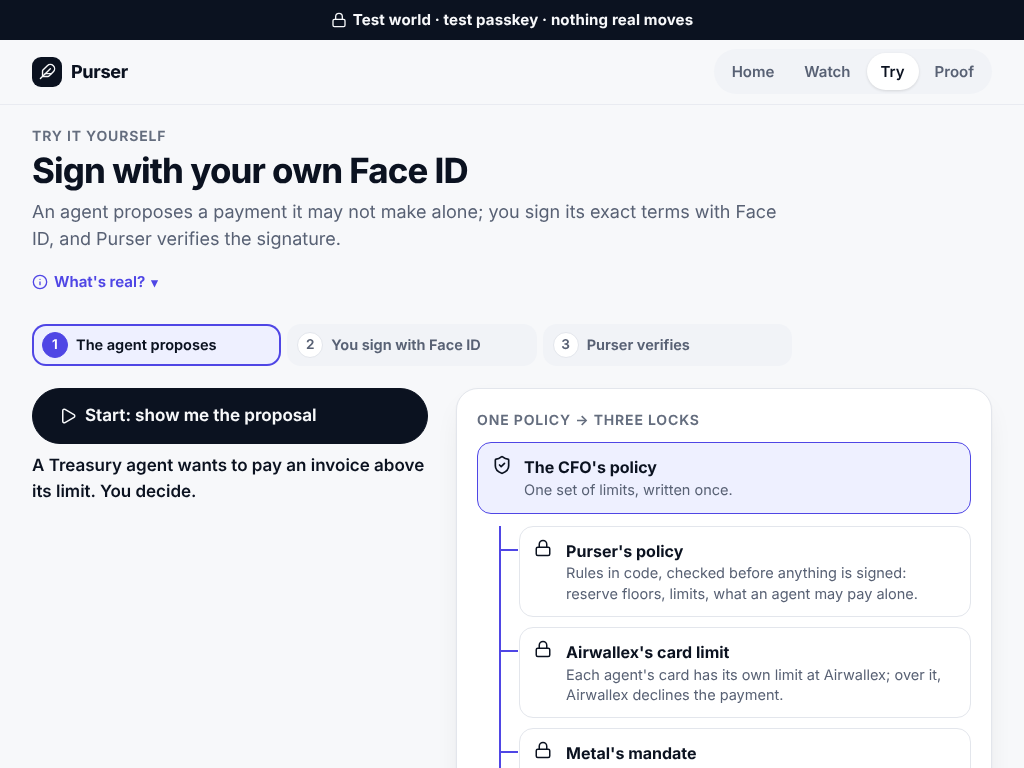
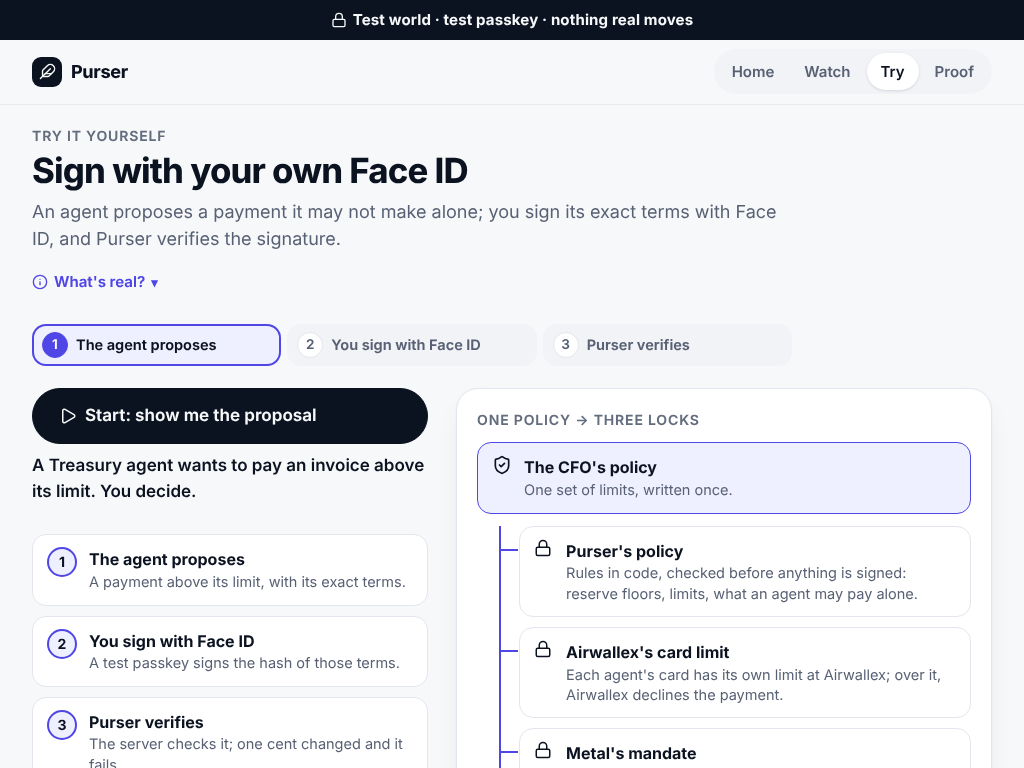
/try/sign from 1024 px: the three steps under the start button
The empty left column on desktop now shows the three steps once more, one line each with a short gloss, beside
"One policy -> three locks"; hidden below 1024 px, where the progress bar says them. A unit test reads the lines;
the browser check checks them at 1440 px and that they fill the column beside the diagram. New 1024 and 1440 start
screenshots in docs/evidence/try-sign-ux. 2549 tests in 258 files.

Claude-Session: https://claude.ai/code/session_017bq3Bxz45idsGUgFJjRs4G

diff --git a/test/browser/trysign.check.ts b/test/browser/trysign.check.ts
@@ -44,7 +44,7 @@ const { StandInQuotes } = await import("../support/fxStandIn.js");
 const fxStandIn = new StandInQuotes();
 const { StandInLine } = await import("../support/lineStandIn.js");
 const lineStandIn = new StandInLine();
-const { TAMPER_VERDICT, TRY_SIGN_END, TRY_SIGN_HOOK, TRY_SIGN_LABEL, TRY_SIGN_SIGNED, TRY_SIGN_STEPS, WHATS_REAL } = await import("../../src/try/sign.js");
+const { TAMPER_VERDICT, TRY_SIGN_END, TRY_SIGN_HOOK, TRY_SIGN_LABEL, TRY_SIGN_SIGNED, TRY_SIGN_STEP_GLOSS, TRY_SIGN_STEPS, WHATS_REAL } = await import("../../src/try/sign.js");
 const { cfoApproval, tryLocks } = await import("../../src/try/examples.js");
 const { letThroughOf, loadRecord } = await import("../../src/redesign/run.js");
 const { canonical } = await import("../../worker/src/trySign.js");
@@ -203,7 +203,18 @@ for (const [width, scheme] of RUNS) {
     check(!!startFill.diagram && startFill.diagram.left > width * 0.45 && startFill.diagram.bottom <= height && startFill.diagram.locks === 3,
       `${tag}: A4: the right column shows "one policy → three locks" (from x ${Math.round(startFill.diagram?.left ?? 0)}, three locks, above the fold)`);
     check(startFill.fill >= 0.4, `${tag}: A4: the start screen is not mostly empty (content covers ${Math.round(startFill.fill * 100)}% of the screen below the header)`);
-  } else check(startFill.diagram === null, `${tag}: below 1024 px the diagram is not shown`);
+    // The left column under the start button: the three steps, each with its gloss, filling the column beside the diagram.
+    const left = await page.evaluate(`(() => {
+      const ls = [...document.querySelectorAll("#s-world .gosteps li")].filter((l) => l.getClientRects().length > 0);
+      const go = document.querySelector("#s-world .go").getBoundingClientRect(), d = document.querySelector("#diagram").getBoundingClientRect();
+      return { lines: ls.map((l) => [l.querySelector("b").textContent, l.querySelector("small").textContent]), goBottom: go.bottom, goRight: go.right, dTop: d.top, dBottom: d.bottom, dLeft: d.left };
+    })()`) as { lines: [string, string][]; goBottom: number; goRight: number; dTop: number; dBottom: number; dLeft: number };
+    check(JSON.stringify(left.lines) === JSON.stringify(TRY_SIGN_STEPS.map((s, i) => [s, TRY_SIGN_STEP_GLOSS[i]])) && left.goRight <= left.dLeft && left.goBottom - left.dTop >= 0.7 * (left.dBottom - left.dTop),
+      `${tag}: A4: the left column shows the three steps with their glosses under the start button (to ${Math.round(left.goBottom)} px, the diagram to ${Math.round(left.dBottom)} px)`);
+  } else {
+    check(startFill.diagram === null, `${tag}: below 1024 px the diagram is not shown`);
+    check(await page.locator("#s-world .gosteps").isHidden(), `${tag}: below 1024 px the steps under the button are not shown (the progress bar says them)`);
+  }
   await page.screenshot({ path: join(shots, `${tag}-1-start.png`) });
 
   // Six requests a visit (world, passkey, signature, three tampers) and six visits: the relay's 30 a minute per address

diff --git a/src/try/sign.ts b/src/try/sign.ts
@@ -21,6 +21,12 @@ export const TRY_SIGN_LABEL = "Test world · test passkey · nothing real moves"
 
 /** The three steps, word for word (the progress indicator). */
 export const TRY_SIGN_STEPS = ["The agent proposes", "You sign with Face ID", "Purser verifies"] as const;
+/** From 1024 px, under the start button: each step once more, with a short gloss, word for word (Max, 6 Nov). */
+export const TRY_SIGN_STEP_GLOSS = [
+  "A payment above its limit, with its exact terms.",
+  "A test passkey signs the hash of those terms.",
+  "The server checks it; one cent changed and it fails.",
+] as const;
 
 /** The line under the start button, word for word (Max, 6 Nov). */
 export const TRY_SIGN_HOOK = "A Treasury agent wants to pay an invoice above its limit. You decide.";
@@ -99,8 +105,13 @@ ol.progress li .t { min-width: 0; overflow-wrap: anywhere; }
 .start { display: grid; gap: 8px; max-width: 760px; }
 .go { display: grid; gap: 8px; align-content: start; }
 /* A laptop (A4): the start screen's right column shows how one policy becomes three locks; below 1024 px it is hidden. */
-.diagram { display: none; }
+.diagram, .gosteps { display: none; }
 @media (min-width: 1024px) {
+  /* The left column, under the start button: the three steps, one line each with its gloss. */
+  .gosteps { display: grid; gap: 10px; list-style: none; margin: 14px 0 0; padding: 0; }
+  .gosteps li { display: grid; grid-template-columns: 30px minmax(0, 1fr); gap: 12px; align-items: start; padding: 12px 14px; border-radius: 14px; border: 1px solid var(--border); background: var(--surface); }
+  .gosteps .n { width: 30px; height: 30px; border-radius: 50%; display: grid; place-items: center; background: var(--accent-soft); color: var(--text); box-shadow: inset 0 0 0 2px var(--accent); font: 700 14px/1 Inter, system-ui, sans-serif; }
+  .gosteps b { display: block; font-size: 16px; } .gosteps small { display: block; color: var(--muted); font-size: 14.5px; line-height: 1.4; }
   .start { max-width: 1200px; grid-template-columns: minmax(0, .85fr) minmax(0, 1.15fr); gap: 28px; align-items: start; }
   .diagram { display: grid; gap: 12px; padding: 20px; }
   .diagram .eyebrow { margin: 0; }
@@ -775,6 +786,9 @@ ${TRY_SIGN_STEPS.map((s, i) => `  <li id="pg-${i + 1}"${i === 0 ? ' class="on" a
   <button class="btn primary big" type="button" id="go-world">${icon("play", 18)}Start: show me the proposal</button>
   <p class="hook" id="hook">${esc(TRY_SIGN_HOOK)}</p>
   <p class="status" id="w-status" aria-live="polite"></p>
+  <ol class="gosteps" aria-label="What happens">
+${TRY_SIGN_STEPS.map((s, i) => `    <li><span class="n">${i + 1}</span><span><b>${esc(s)}</b><small>${esc(TRY_SIGN_STEP_GLOSS[i]!)}</small></span></li>`).join("\n")}
+  </ol>
   </div>
   <aside class="card diagram" id="diagram" aria-label="One policy, three locks">
     <p class="eyebrow">One policy → three locks</p>

diff --git a/test/try-examples.test.ts b/test/try-examples.test.ts
@@ -6,7 +6,7 @@ import { readFileSync } from "node:fs";
 import { describe, expect, it } from "vitest";
 import { buildPages } from "../src/relay/assets.js";
 import { cfoApproval, floorsHeld, tryLocks } from "../src/try/examples.js";
-import { TAMPER_FIELDS, TAMPER_VERDICT, TRY_SIGN_HOOK, TRY_SIGN_LABEL, TRY_SIGN_SIGNED, TRY_SIGN_STEPS, WHATS_REAL, trySignPage } from "../src/try/sign.js";
+import { TAMPER_FIELDS, TAMPER_VERDICT, TRY_SIGN_HOOK, TRY_SIGN_LABEL, TRY_SIGN_SIGNED, TRY_SIGN_STEP_GLOSS, TRY_SIGN_STEPS, WHATS_REAL, trySignPage } from "../src/try/sign.js";
 import { proposalTerms, FIXED_PROPOSALS } from "../worker/src/trySign.js";
 
 const read = <T>(p: string) => JSON.parse(readFileSync(new URL(`../${p}`, import.meta.url), "utf8")) as T;
@@ -111,6 +111,17 @@ describe("the page's frame: three steps, one line of disclaimer, \"What's real?\
     expect(ol).toContain('<li id="pg-1" class="on" aria-current="step">');
     expect(main.indexOf('id="go-world"')).toBeGreaterThan(main.indexOf("</ol>"));
     expect(main.indexOf('id="go-world"')).toBeLessThan(main.indexOf('id="s-props"'));
+  });
+
+  it("from 1024 px, under the start button: the three steps once more, one line each with a short gloss", () => {
+    const go = block(main, '<div class="go">', "div").whole;
+    const ol = block(go, '<ol class="gosteps"', "ol").whole;
+    expect(go.indexOf('id="go-world"')).toBeLessThan(go.indexOf('<ol class="gosteps"'));
+    const items = ol.split("<li>").slice(1).map((x) => [/<b>([^<]*)<\/b>/.exec(x)?.[1], /<small>([^<]*)<\/small>/.exec(x)?.[1]]);
+    expect(items).toEqual(TRY_SIGN_STEPS.map((s, i) => [s, TRY_SIGN_STEP_GLOSS[i]]));
+    for (const g of TRY_SIGN_STEP_GLOSS) expect(g.split(" ").length).toBeLessThanOrEqual(10);
+    // Hidden below 1024 px (the progress bar says the steps on a phone).
+    expect(page).toMatch(/\.diagram, \.gosteps \{ display: none; \}/);
   });
 
   it("one line of disclaimer at the top, the honest detail inside \"What's real?\"", () => {

diff --git a/docs/claims.md b/docs/claims.md
@@ -56,13 +56,13 @@ displays was not checked.
 | Red team | 39 of 39 failed, 0 inconclusive: 37 stopped before anything moved, 2 found afterwards (a hidden card charge by the reconciliation, a rewritten log row by `npm run verify`); 35 scripted attacks and 4 documents written by Claude Opus as the attacker, in a throwaway test world (30 Oct). Then three runs in a row on 31 Oct: 118 of 120 failed, 2 inconclusive (bank-change notices the classifier read as data corrections: nothing was paid or changed, but not counted as stopped; [runs](runs/redteam-2026-10-31/README.md)) | `docs/redteam/report.json` (30 Oct; `caught` per attempt) | The harness now gives every attempt an outcome, and inconclusive never counts as blocked. The task card is tested at a hotel while still fresh (`MERCHANT_CATEGORY_NOT_ALLOWED`). The revoked agent is named correctly. The film's "thirty-four" is now thirty-nine. |
 | Duplicate invoices | A paid invoice sent again as "btx-dup" or with an en dash is refused | `test/invoice-duplicate-key.test.ts`; red team document 4 | Found by the red team and fixed. |
 | Scenario Lab | 18 of 18 as expected | `docs/lab/results.json` | hardening.md said 12. |
-| Tests | 2548 in 258 files, all passing (6 Nov) | `npx vitest run` | Was 2538 in 258 files (6 Nov, the page shorter and wider, before the Haiku sentence's amount check and flag); 2537 in 258 files (6 Nov, /try/verify); 2534 in 257 files (6 Nov, the Haiku sentence); 2522 in 256 files (6 Nov, the expired-quote fixes); 2521 in 256 files (6 Nov, the live FX quote); 2495 in 255 files (6 Nov, before the live FX quote); 2482 in 254 files (6 Nov, part A after review); 2492 in 255 files (6 Nov, the receipt, before review); 2479 in 254 files (6 Nov, /try/sign as the demo, before Max's review); 2468 in 253 files (6 Nov, the QA fixes, before /try/sign as the demo); 2459 in 252 files (6 Nov, before the QA fixes); 2365 in 248 files (5 Nov); 2291 in 245 files (4 Nov, tag v1.0-submission); 1074 in 136 files (31 Oct). |
+| Tests | 2549 in 258 files, all passing (6 Nov) | `npx vitest run` | Was 2548 in 258 files (6 Nov, before the three steps under the start button); 2538 in 258 files (6 Nov, the page shorter and wider, before the Haiku sentence's amount check and flag); 2537 in 258 files (6 Nov, /try/verify); 2534 in 257 files (6 Nov, the Haiku sentence); 2522 in 256 files (6 Nov, the expired-quote fixes); 2521 in 256 files (6 Nov, the live FX quote); 2495 in 255 files (6 Nov, before the live FX quote); 2482 in 254 files (6 Nov, part A after review); 2492 in 255 files (6 Nov, the receipt, before review); 2479 in 254 files (6 Nov, /try/sign as the demo, before Max's review); 2468 in 253 files (6 Nov, the QA fixes, before /try/sign as the demo); 2459 in 252 files (6 Nov, before the QA fixes); 2365 in 248 files (5 Nov); 2291 in 245 files (4 Nov, tag v1.0-submission); 1074 in 136 files (31 Oct). |
 | `/try/sign`: "Try it yourself: sign with your own Face ID" | A test world per visitor for one hour, with stand-in executors (no payment or conversion reaches Airwallex, nothing reaches Metal) and fixed-text proposals (no model call); the waiting payment's terms carry a live FX quote from the Airwallex sandbox (schema `kit11.try-terms/v3`, `fx`: read-only, nothing converted; the Worker may call only login and quote creation on `api.sandbox.airwallex.com`, `worker/src/fxQuote.ts`, `test/try-fx.test.ts`), so the signature binds to the quote id and an expired quote is refused ("Quote expired. Get a fresh one and sign again."); without the sandbox key in the Worker's secrets (Max's scoped key, not set by any script) or past the quote limits (12 an address an hour; 20 a minute and 300 an hour for everyone), the terms carry no quote and the page shows the main run's recorded quote, labelled "recorded, not live" (not yet deployed); its own store (Durable Object instance `try-sign`, `ts_*` tables), apart from the CFO's. Real: the visitor's passkey signature over the SHA-256 of the canonical terms, and the Worker's check with the D20 verifier against the public key the visitor's device registered. Not proven: which authenticator made the key (attestation "none": a software key verifies too), so the page never says the server proved Face ID. A test passkey is not enrolled anywhere else, so it approves nothing real and opens no session. Behind `TRY_SIGN_ENABLED`; **live since 4 November 2026** (the Worker deploy of commit `852b323`, flag on) at https://kit11.max-31b.workers.dev/try/sign | `worker/src/trySign.ts`; `test/try-sign.test.ts`, `test/try-sign-separation.test.ts`; `test/browser/trysign.check.ts` (360, 390 and 1440 px, light and dark, in CI since 5 November; the layout checked after signing and after the tamper: no wider than the screen, nothing outside its card; with `--live` against the hosted site, green on 4 November: passkey made, the waiting proposal signed and verified, the tampered amount refused, the blocked one without a button); `test/browser/trysign-webkit.check.ts`. 6 November, the demo in three steps ("The agent proposes" → "You sign with Face ID" → "Purser verifies", with a progress indicator): the waiting proposal as the CFO's approval sheet (amount, beneficiary, a test IBAN with check digits 00, the terms hash); the visitor tampers with the amount, the IBAN or the currency and the server refuses the same signature; the blocked proposal shows which of three locks stopped it (Purser's policy, simulated in the test world) and links each lock's real example, from its record (`src/try/examples.ts`, `test/try-examples.test.ts`): Metal's on-chain refusal in the main run (tx `0x2e92f9cb…1871`), Airwallex's `LIMIT_EXCEEDED` of EUR 45.00 in the separate TAP run of 2 November, and Purser's floors holding at P-0005 in the main run (the invoice plan needed EUR 260.00 with EUR 150.00 free, so only the shortfall was converted: EUR 110.00 for USD 124.29; plan row 351, ledger row 362; USD 9995582.63 after it, above its 9990706.23 floor), linked to that FX row on /proof. The disclaimer is one line plus the one "What's real?"; each explanation is one sentence with the rest behind "more"; after signing, a green check says "Signed and verified. This signature only fits these exact terms."; a refused tamper ends with "One cent changed. The signature is worthless." (or "One field changed."). After signing, receipt.json (the exact terms, their hash, the passkey's assertion, its public key, ES256) verifies offline with `npm run verify-receipt -- receipt.json` (Node's own crypto, no network: `src/try/receipt.ts`, `test/try-receipt.test.ts`; one changed field or one cent fails). It proves the holder of that key signed those terms, not who holds it. Tested on a real iPhone (Safari, Face ID) by Max on 6 Nov, on the deploy of main b494951 (Worker version 90e111a9): signed, tamper refused, receipt downloaded; this does not show which authenticator made the key (attestation "none") | New, 4 November; the demo, 6 November (not yet deployed) |
 | `/try/sign`: an expired quote locks the sheet | While the FX quote in the terms is expired, "Create your test passkey" and "Sign with Face ID" are off until "Get a new quote" brings new terms; the sheet's two rows read "Proposal expires" and "Quote expires" | `src/try/sign.ts` (`quoteExpired`); `test/browser/trysign.check.ts` (390 px: off before the passkey, and off with the passkey made, on again after the new quote) | New, 6 November (not yet deployed) |
 | `/try/sign`: the Treasury agent's sentence from Claude Haiku | The waiting payment's sentence is one real Claude Haiku call (`claude-haiku-5-5`, the repo's Haiku id), labelled "Claude Haiku · live", its request id behind "more"; the model is given only the test world's invoice, balance, reserve floor and limit, written by code, never a visitor's words; it only proposes (the checks, the amounts and the approval stay in code and the passkey, and the sentence is not in the signed terms, which name who proposed it). A budget of USD 1 a UTC day, 10 sentences a minute for everyone and 6 an hour per address, an 8 s timeout; otherwise the fixed sentence, labelled "fixed text (budget reached)" or "fixed text (model unavailable)". The amounts go to the model written the page's way ("EUR 1,850.00", the page's own formatter, compared in the test), with the instruction to copy them exactly; code then checks every amount in the sentence against the four it was given (the invoice's EUR 1,850.00, which is the signed amount, the balance, the reserve floor and the limit), each written exactly as given, and allows no other number but the invoice's reference: else the fixed sentence, labelled "fixed text (sentence did not match the terms)". The page puts the sentence in as text, never markup. Off unless the Worker variable `TRY_SIGN_HAIKU` is exactly "on" ("fixed text (live model off)"; no model call even with the key present); Max sets it, and the Worker secret `ANTHROPIC_API_KEY`, himself; no script or config sets either | `worker/src/agentLine.ts`, `src/try/claude.ts` (`claudeSentence`); `test/try-agent-line.test.ts`; `test/browser/trysign.check.ts` (a labelled stand-in, and the model down at 360 px dark). One real call on 6 Nov to confirm the shape: request `req_011CgmVjz3v5ZuFugwttMDDF`, USD 0.000094 | New, 6 November (not yet deployed) |
 | `/try/verify`: check a receipt yourself, in the browser | "Don't trust our server: check it yourself." The page checks receipt.json with WebCrypto, with the same checks, names and details as `npm run verify-receipt` (`src/try/receipt.ts`); "Signature valid for these terms", or "Invalid" with the failing check named. A "Change one field" toggle (amount, IBAN, currency, FX rate) and file upload; after signing, "Verify this receipt here" hands the receipt over in the link's #fragment, which a browser never sends. Its CSP allows no connection (`connect-src 'none'`), one hashed inline script | `src/try/verify.ts`; `test/try-verify.test.ts` (the browser's checks equal verify-receipt's on 29 receipts, good and changed); `test/browser/trysign.check.ts` (360, 390, 1440 px, light and dark: valid, the toggle, an uploaded changed file, no request while checking) | New, 6 November (not yet deployed) |
 | `/try/sign`: a refused signature is an answer, not an error | A signature the verifier refuses (changed terms, another hash, a replayed counter) answers HTTP 200 `{verified: false, reason}`; nothing runs. Malformed requests, no world, cross-site requests and limits stay 4xx/5xx. The whole visit logs 0 console errors | `worker/src/trySign.ts`; `test/try-sign.test.ts` (A6); `test/browser/trysign.check.ts` (0 console errors at 360, 390 and 1440 px, light and dark) | New, 6 November (not yet deployed); was 400 or 409 |
-| `/try/sign`: the page, shorter and wider | From 1024 px the start screen's right column shows "One policy → three locks" (content covers 48% of a 1440×900 screen below the header); after signing the result shows at most about 150 words (118 at 390 px, 123 at 1440 px), each explanation one sentence; the quick tamper's label is on one line; "Try another field" after the first refusal; then three buttons: "See the real run: the CFO signed P-0005" (/proof#faceid), "Watch the film" (https://youtu.be/jaqO2M2V6NY), "Read the code" (the repository) | `src/try/sign.ts`; `test/browser/trysign.check.ts` (A4, A5, A7, A8 measured in the browser) | New, 6 November (not yet deployed) |
+| `/try/sign`: the page, shorter and wider | From 1024 px the start screen's right column shows "One policy → three locks", and the left column, under the start button, the three steps once more, each with a short gloss (content covers 48% of a 1440×900 screen below the header); after signing the result shows at most about 150 words (118 at 390 px, 123 at 1440 px), each explanation one sentence; the quick tamper's label is on one line; "Try another field" after the first refusal; then three buttons: "See the real run: the CFO signed P-0005" (/proof#faceid), "Watch the film" (https://youtu.be/jaqO2M2V6NY), "Read the code" (the repository) | `src/try/sign.ts`; `test/browser/trysign.check.ts` (A4, A5, A7, A8 measured in the browser) | New, 6 November (not yet deployed) |
 | `/health` for anyone | Between live runs (no runner sync for 30 minutes and no live run declared with the Worker variable `LIVE_RUN`): 200, "Recorded demo · the live runner runs during live runs", with the alarm codes that stood at the runner's last sync. During a live run: 503 on `runner_down` or any alarm, as before. `/health/live` is that alarm at all times, for a monitor and the CFO | `src/ops/publicHealth.ts` (`publicStatus`, `LIVE_RUN_EXPECTED_MS`); `test/health.test.ts` | New, 4 November; live with the next deploy (until then `/health` answers 503 `runner_down` whenever the runner is off) |
 | Speed limit (Sourcing agent) | 30 payments a minute, 4.00 test USD an hour | `src/config/policy.ts` `VELOCITY` | Kept on purpose, above the busiest minute of the recorded run (18). |
 | Hidden card payment | Found by the reconciliation within the hour, not prevented | `src/ops/health.ts` `RECONCILE_EVERY_MS`; red team `hidden-payment` | Was daily. The runner now reconciles every hour, and an alarm fires after three missed rounds. |

diff --git a/README.md b/README.md
@@ -9,7 +9,7 @@ Purser gives each AI agent of a small company its own Airwallex card and its own
 each agent's on-chain budget, Airwallex holds each card's limit, Purser's code holds the rest; the CFO approves anything
 beyond them, with Face ID on the exact terms.
 
-[![CI](https://github.com/agamemnon-coder/x402-business-agents/actions/workflows/ci.yml/badge.svg?branch=main)](https://github.com/agamemnon-coder/x402-business-agents/actions/workflows/ci.yml?query=branch%3Amain) [![License: MIT](https://img.shields.io/badge/license-MIT-blue)](LICENSE) [![Tests: 2548 passing](https://img.shields.io/badge/tests-2548%20passing-brightgreen)](#run-it-in-3-commands) [![Live demo: /try/sign](https://img.shields.io/badge/live%20demo-%2Ftry%2Fsign-7c6cff)](https://kit11.max-31b.workers.dev/try/sign) ![Metal testnet · Airwallex sandbox](https://img.shields.io/badge/Metal%20testnet%20%C2%B7%20Airwallex%20sandbox-test%20money%20only-555)
+[![CI](https://github.com/agamemnon-coder/x402-business-agents/actions/workflows/ci.yml/badge.svg?branch=main)](https://github.com/agamemnon-coder/x402-business-agents/actions/workflows/ci.yml?query=branch%3Amain) [![License: MIT](https://img.shields.io/badge/license-MIT-blue)](LICENSE) [![Tests: 2549 passing](https://img.shields.io/badge/tests-2549%20passing-brightgreen)](#run-it-in-3-commands) [![Live demo: /try/sign](https://img.shields.io/badge/live%20demo-%2Ftry%2Fsign-7c6cff)](https://kit11.max-31b.workers.dev/try/sign) ![Metal testnet · Airwallex sandbox](https://img.shields.io/badge/Metal%20testnet%20%C2%B7%20Airwallex%20sandbox-test%20money%20only-555)
 
 **A supplier doubles its price. A customer disputes 12 orders. A €240 bill is due in euros.** Three Claude agents run a
 small data business on 20 test dollars through Metal and Airwallex; the CFO signed 5 times with Face ID. One live run,
@@ -137,7 +137,7 @@ npm test          # the full suite, on stand-ins
 npm run judge     # the main run's replay, the CFO dashboard and the Scenario Lab, offline
 ```
 
-**2548 tests in 258 files, all passing** (`npx vitest run`, 6 November; 2291 in 245 at the tag `v1.0-submission`); CI runs the same suite on
+**2549 tests in 258 files, all passing** (`npx vitest run`, 6 November; 2291 in 245 at the tag `v1.0-submission`); CI runs the same suite on
 every push. Running it live (sandbox keys, a Metal RPC): [docs/run-it.md](docs/run-it.md).
 
 ## Words

diff --git a/docs/submission/demo-day.md b/docs/submission/demo-day.md
@@ -44,7 +44,7 @@ your repository with setup instructions."
 | Finance and product value | 0:15 who and what (a small company that sells live stock data per query; the rule: inside its limits an agent pays alone, beyond them the CFO signs); 2:05 the core line | [/](https://kit11.max-31b.workers.dev/); deck slides 2–3 |
 | Airwallex relevance and financial context | 0:40, beat 3: FX for only the shortfall, SWIFT PAID 6 s after Face ID (simulated settlement) | conversion `3ca88196-05da-4d88-9caa-796f03704636`; transfer `03360bfa-afce-457b-89d1-e1097fbe3985`; authorization `01a1a12f-4113-7000-b76d-014677710007` |
[1 lines of base64/hex data omitted]
-| Technical execution | 1:50: every id published on /proof, the Metal ones on chain and checkable; `npm run verify`; 2548 tests | [/proof](https://kit11.max-31b.workers.dev/proof); 412 audit rows, hash-chained |
+| Technical execution | 1:50: every id published on /proof, the Metal ones on chain and checkable; `npm run verify`; 2549 tests | [/proof](https://kit11.max-31b.workers.dev/proof); 412 audit rows, hash-chained |
 | "(1) a working end-to-end workflow for a clear user" | The whole run: 0:40–1:50 | [/watch](https://kit11.max-31b.workers.dev/watch) |
 | "(2) Airwallex used for a necessary financial action" | Beat 3: the euro licence paid by SWIFT, euros bought by FX | transfer `03360bfa…3985` |
 | "(3) financial context influencing what the agent decides" | Beat 1: the price rise; Treasury's two options within the same 20.00: A, Sourcing's cap to 0.04 and our price stays 0.05; B, the same cap and our price up to 0.07 | P-0002 (option A, signed), P-0003 (option B, superseded) |

diff --git a/docs/submission/release-notes.md b/docs/submission/release-notes.md
@@ -134,6 +134,10 @@ Record: [docs/demo/main-run.json](../demo/main-run.json); log: [docs/runs/2026-1
   labelled "fixed text (sentence did not match the terms)". The sentence goes on the page as text, never markup. The
   live call stays off until the Worker variable TRY_SIGN_HAIKU is exactly "on", which only Max sets ("fixed text (live
   model off)"); the deploy guard checks that no script sets it. 2548 tests in 258 files, all passing.
+- 6 November, /try/sign from 1024 px: the left column under the start button shows the three steps once more, one
+  line each with a short gloss ("A payment above its limit, with its exact terms." / "A test passkey signs the hash of
+  those terms." / "The server checks it; one cent changed and it fails."), beside "One policy → three locks". 2549
+  tests in 258 files, all passing.
 
 ## Real, and ours
 
